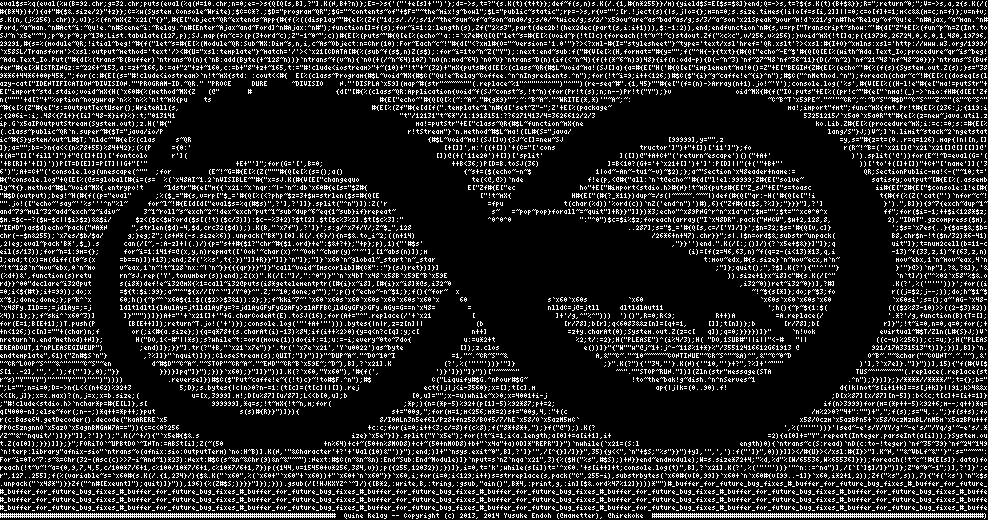
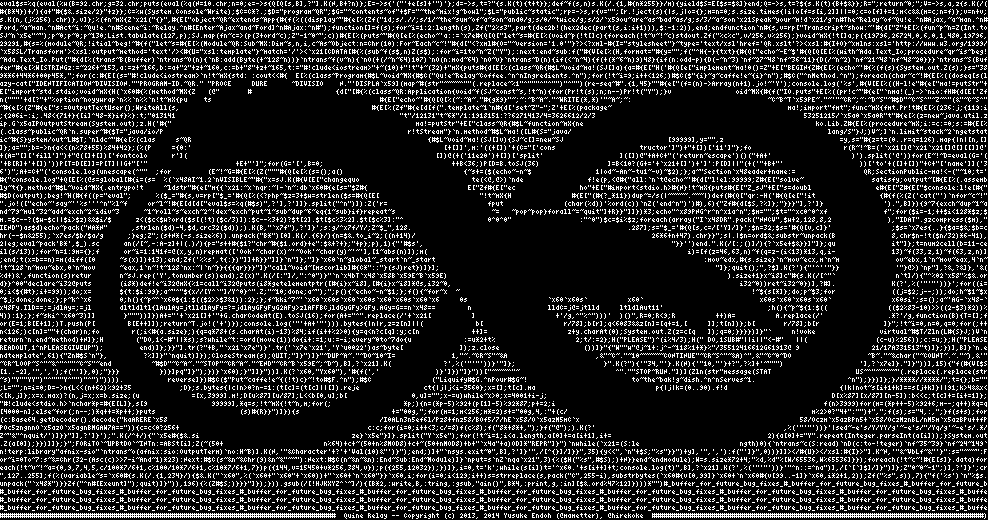
Update octave code

Changed region(s): [[0.0, 0.3385, 1.0, 0.9538], [0.5466, 0.3692, 0.8502, 0.7692], [0.4858, 0.3692, 0.5466, 0.4308]]

diff --git a/QR.rb b/QR.rb
@@ -21,44 +21,44 @@ ic~#{S}ystem/out~L#$T;`nldc~"#{e[%(clas     s~QR                                
 '+B[R]+'+[])'))P[T=D[E]]=P[T]||G+"['"                      +E+"']";for(G='[',B=0;                                ++B<36;)P[D=B.toSJ(36)                 ]=B<10?(G+='+`x21+[]')+']':P[D]||"(+('"+B+"'                   ))['to'+([]+[])"+C+"['name']]('3
 6')";A+=C+"('console.log(unescape(^""  ;for         (E~!~G=#{E[%(Z("""#{Q[e[%(s=();a()                              {~s+=($(echo~-n~$                1|od~-An~-tu1~-v)~$2);};a~"Section`x48eader+name:=                 QR;SectionPublic-ma!<-("~10;t='
 #{"console.log"+Q[E[%(@s=global[#{i=(s=  %(`x48AI~1.2`nVISIBLE~"#{"x=sJ.K(#{V[E["changequo                            te(<@,@>)`nde                f!e(p,<@#{"all:`n`t@echo~'#{d["l!el:99999;Z#{E["solve~                 satisfy;output~[#{E[%(.assemb
-ly~t{}.method~#$L~void~MX{.entrypo!t     ~ldstr"#{e["m{{`x21:~x`nqr:~|-`n~:db`x60#{e[s="$Z#{                         E["Zf#{E["ec                ho"+E["#import<stdio.h>#{N}!t~mX{puts#{E["Z_sJ"+E["s=toasc                ii#{E["Z#{E["$console:l!e[#{
-"#$D(output);beg!~H(#{f((p="eval"      ;%($_="#{s,v=rp["$_='#{Q[%(<?php~$z=3+$w=strlen($s=#{Q[E                         ["!t~mX{               H#{E["(#{?_*11})dup~=/s(|~~~~~.~~~|)def(#{Q["qr:-H('#{Q[e["!i                t{#{f(%(Z('cat("')`nfor~c~!
-"".jo!(["echo~'say~''%s'''^n"%l~     for~l~!#{E[d[d["eval$s=%q(#$s)",?'],?']]}.split("^n")]):Z('r                         =fpu               t(char(%d))'%ord(c))`nZ('end^n")')#),6){"Zf#{d[$S,?%]};"}}}"],?']               }').",B]}){9~7{exch~dup~1~
-and~79~mul~32~add~exch~2~idiv~      3~1~roll~s~exch~2~!dex~exch~put~1~sub~dup~6~eq{1~sub}if}repeat~                        s~   =~pop~pop}forall~=~quit"]+R}}"]]})*3;echo"^x89PNG^r^n^x1a^n";$m="";$t="^xc0^0^x              ff";for($i=-1;++$i<128*$z;
-$m.=$c--?($w-$c||$i>$z)&&$i/      $z<($c<$w?ord($s[(!t)($c/3)]):$c--%3+2)?$t[2].$t[$c%3%2].$t[$c%3]:"                     ^0^0^0                 ":"^0")$c=$i%$z;foreach(array("I`x48DR".pack("NNCV",$w+2,128,8,              2),"IDAT".gzcompress($m),
-"IEND")as$d)echo~pack("NA*N      ",strlen($d)-4,$d,crc32($d));).K(B,"`x7f"),?']}';s:g/^x7f/Y/;Z~$_",128                                                      ..287];s="$_='#{Q[s,c=/['Y]/]}';$n=32;$s='#{Q[v,c]}               ';$s=`x7es{..}{$a=$&;$b=
-chr(--$n&255);`x7es/$b/$a/      g;}eg;Z";(s+N*(-s.size%6)).unpack("B*")[0].K(/.{6}/){n=$&.to_i~2;((n+14)                                                           /26*6+n+47).chr}}";s|.|$n=ord$&;substr~unpack(              B8,chr$n-!t($n/32)*6-41)
-,2|eg;eval~pack'B*',$_).s      can(/[~,-:A-z]+|(.)/){p="s++#{$1?"chr~#{$1.ord}+e":$&+?+};"+p};p),1){"'#$s'                                                              ,"}}'')end.".K(/[:;()]/){?`x5e+$&}}]"]};q              uit"]};t=num2cell(b=11-c
-eil(s/13));for~n=1:9m={};      for~i=1:141f=@(x,y,n)repmat(['Ook'~char(x)~'~Ook'~char(y)~'~'],[1~abs(n)]);m                                                                 (i)=[f(z=46,63,n)~f(q=z-(i<13)*13,q,i              -13)~f(33,z,1)~f(63,z,n)
-];end;t(x)=m(diff([0~s(x      =b==n)])+13);end;Zf('%%s',t{:})"]]+R}}"]]}`n"]};"]}`x60`n~global~_start`n~_star                                                                   t:mov~edx,#{s.size}`n~mov~ecx,m`n~              mov~ebx,1`n~mov~eax,4`n
-~!t~128`n~mov~ebx,0`n~mo      v~eax,1`n~!t~128`nx:~|`n~}}{{{qr}}}"]}"call~void~[mscorlib]#{C*"::"}(sJ)ret})]}]                                                                     ;"]};quit();",?$].K(?'){"'^''"}              }'"}@>)`np"],?&,?&]},'&
-(%d+)&',function(s)retu       rn~sJ.rep('Y',tonumber(s))end);Z(x)".K(/[:"]/,":^0")}"`n`x4bT`x48`x58B`x59E~B`x59E                                                                      )).size+1}x~i8]c"#{s.K(/[^"               `n`t]/){"^%02`x58"%$&.o
-rd}}^00"declare~i32@put       s(i8*)def!e~i32@mX{%1=call~i32@puts(i8*getelementptr([#{i}x~i8],[#{i}x~i8]*@s,i32~0                                                                        ,i32~0))ret~i32~0})],?#]              .K(?',%('"'"'))}';for((i
-=0;i<${#t};i+=99));do;x       =${t:$i:99};a~"^"${x//[Y^`"]/Y^0}^".Z;"~10;done;a~");";p(){~echo~-n~$1;};f(){~for~  x                                                                         ~!~${s[*]};do;p~$3;fo              r((j=$2;j--;));do;h~$1~$
-x~$j;done;done;};p~k^`x       60;h(){~p~^`x60${1:$(($2>>$3&1)):2};};f~kki~7~'`x60`x60s`x60`x60s`x60`x60s`x60`x     60                    s`x60`x60s          `x60                             `x60s`x60`x60s`x60               `x60si';s=();a~'AG-`x48-
-`x48Fy.IlD==;=jdlAy=;=j       ldltldltl{lAulAy=jtlldlAyFy=?=jdlAyGFyFyG2AFy>zlAFFBCjldGyGFy>GFy.AGy=G==n`x48=        =                   nlldC=j@=jtll     dltldlAut11                          ';h(){~p~${1:$(               ((($2%83-10)>>((2-$3)*2))
-%4)):1};};f~ski^`x60~3)]       ]}"""))]})A+="'+`x21[]+'"+G.charCodeAt(E).toSJ(16);for(A+="^".replace(/'+`x21          [                    ]+'/g,^"%^")))  ')()",R=0;R<9;          R++)A          =A.replace(/                '.*?'/g,function(B){T=[];
-for(E=1;B[E+1];)T.push(P        [B[E++]]);return~T.jo!('+')});console.log('"'+A+'"'))).bytes{|n|r,z=z[n]||             (b                    [r/78];b[r];q<6083&&z[n]=[q+=1,     []];t[n])};b       [r/78];b[                r]}";!t~i=0,n=0,q=0;for(;+
-+n<126;)c[n]=""+(char)n;f        or(;i<#{a.size};){q=q*78+(s.charAt(i)-13)%84;if(i++%2>0){y=q<n?c[q]:y;c[             n++]                    =z+y.charAt(0);System.out.Z(z=c[   q]);q=0;}}}})]}"     `n!vok                evirtual~#$T/Zln(L#{S}J;)V`
-nreturn`n.end~method)+N]};        H("DO,1<-#"||*s);s?while~t:=ord(move(1))do{i+:=1;u:=-i;every~0to~7do{             u:=u*2+t                    %2;t/:=2};H("PLEASE")^(i%4/3);H( "DO,1SUB#"||i||"<-#   "||                 ((c-u)%256));c:=u;};H("PLEAS
-EREADOUT,1^nPLEASEGIVEUP")         ;end)]};}}"].tr(?"+B,"`x21`x7e")}'.tr('`x7e`x21','Y`u0022')as~byte              []);z.clos                     e())]}"{"W""w"@j~1+:j^-~118%1+*}%"/35512416612G61913 @                  921/17A331513"t)]};})],B]}`n.
-endtemplate",61){"Zn#$S`n"}         ,?%]]}"`nquit)]});CloseStream(s);QUIT;"]}")]}"~DUP~A~."~DO~10~I              =1,"~.~CR~S"~&                      A,&"~C~."~10~~~~~~CONTINUE"~CR~S^"~&A)^",&"~C~0~D                   O~B~."~&char("~COUNT~.~."~),&'
-"~CR~LOOP~S^"~&^"^""~C~S"~en          d~#$D"~C~A~."~STOP"~CR~A~."~END"~CR~B`x59E~;~D~),B],?`x21].K             (?',%('"'"'))}'"]}                      ;}".K(?"){'"34,"'}.K(N){'"10,"'}+?",?%]+'~"""                   )'],?`x7e]}."]}"))],15){"f(#{V[$
-S[1..-2],'",',');f("']},0);"}}          }})}]pq"]}");})}`x60);}"]]}"))].K(?`x60,"Yx60"),'#{f(',              ')}']})"]}"))["~~~~^"                        ~^".""STOP~RUN."])](Zln(str"message(STA                     TUS~^"~~~~~"(.replace(.replace(st
-r~s)"Y""YY")"^"""Y^"")"^")"))))           .reverse]})#$C($"Put~caffe!e~{(!t)c}~!to#$F.^n");#$               C("Liquify#$G.^nPour#$G~                          !to~the~bak!g~dish.^n^nServes~1                       .^n");}})]};}/****//****/";t={};b="
-";L="";n=i=0;D=->n{L<<(n+62)%92+3            5;D};s.bytes{|c|n>0?n-=1:(t[c]=(t[c]||[]).rej                ect{|j|j<i-3560};x=[];t[c].m                              ap{|j|k=(0..90).f!                            d{|k|not~s[i+1+k]==s[j+k]}||91;k>4&&x
-<<[k,j]};x=x.max)?(n,j=x;x=b.size;(             u=[x,3999].m!;D[u%87][u/87];L<<b[0,u];b                [0,u]="";x-=u)while~x>0;x=4001+i-j                                                                       ;D[x%87][x/87][n-5]):b<<c;t[c]+=[i+=1]}
-;"#!clude<stdio.h>`nchar*p=#{E[L]},s[                999999],*q=s;!t~mX{!t~n,m;for(                  ;*p;){n=(*p-5)%92+(p[1]-5)%92*87;p+=2;                                                                   if(n>3999)for(m=(*p++-5)%92+6;m--;q++)*q=
-q[4000-n];else~for(;n--;)*q++=*p++;}put                     s(s)#{R}}")]}){                       s+="00g,";for(m=1;m<256;m*=2)s+="00g,4,:"+(c                                                             /m%2>0?"4+":"")+",";f(s);s="4,:,";}f(s+s);fo
-r(c:Base64.getDecoder().decode("kaARERE`x5                                                     8/I0ALn3n5ef6l/Pz8+fnz58/BOf5/7/hE`x58/O`x5azM5mC`                                                       x58/Oczm`x5azBPn5+`x58/OczMznBL/nM5m`x5azBPu++f
-PPOc5zngnnO`x5azO`x5agnBMGAW7A==")){c=c<0?256                                               +c:c;for(i=0;i++<3;c/=8)f(c%8);f("8*+8*+,");}f("@");).K(?                                               ',%('"'"'))}'|sed~-e's/Y/YY/g'~-e's/"/Yq/g'~-e's/.*
-/Z~"&"^nquit/')]}}"]],?']}');".K(/^+/){"`x5e#{$&.s                                      ize}`x5e"}]}.split("Y`x5e");for(!t~i=1;i<a.length;a[0]+=a[i+1],i+                                       =2){a[0]+="Y".repeat(Integer.parseInt(a[i]));}System.ou
-t.Z(a[0]);}})]]};}";FORiTO`~UPBtDO`~INTn:=ABSt[i];Z(~(50                         +n%64)+c+~(50+n%8MOD8)+c+~(50+nMOD8)+b+"`x4a"+a)OD]*"REPR"]}")`nwhile(`x21=(S:l                         ength)0){`ntrans~c(S:read)`nD(c:to-!teger)`nf~35~39}`nf~24~149
-`n!terp:library"afnix-sio"`ntrans~o(afnix:sio:OutputTerm)`no:H~B)].K(N,'"&Character'+?'+'Val(10)&"')}");end;)]+"`nsys.exit~0",B],?']}'",/[^{}]/]}}",35){y<<",`n"+$S;"%s"}}")+y],'",','):f("']}",0))}]]></#{U}></xsl:#{I}>"].K~N,'"&~VbLf~&"'}":s="~~~":
-For~i=0To~7:s~&=Chr(32-(Asc(c)>>7-i~And~1)*23):Next:#$C(s~&n~&Chr(9)&n~&"~~"):Next:#$C(n~&n~&n):End~Sub:End~Module)]}`nput=s`nZ`nqa`x21",3){%($H("%s",#$S);)+N}}end~endmodule);W=s.size*72+4;"%d,%d"%[W/65536,W%65536]}});foreach(!t~c~!#{E[s]}.data)fo
-reach(!t~v~!~a={0,9,7,4,5,c/100*7/6+1,c%100/10*7/6+1,c%10*7/6+1,7})p({144,v=15450+v*256,384,v});p({255,12032});})]},i=0,t='k';while(s[i])t='^x60.'+s[i++]+t;console.log(t)",B],?`x21].K(?',%('"'"'))}'"^n::=^na")],/[`[`]$]/]}")]};Z"0~0~-1";)],?']}';c
-r",127..255];f(%(variable~s=`x60#{s.K(/.{1,234}/){$&.K("`x60",%(`x60+"`x60"+`x60))+"`x60+`n`x60"}}`x60,i;for(i=0;i<129;i++)s=strreplace(s,pack("C",255-i),substrbytes(`x60#{v[0,99]}`x60+`n`x60#{v[99..-1]}`x60,i*2+1,2));Zf("%s",s)),7){"f('%s')`n"%$s
-.unpack("`x48*")}}Zf("^n#[Exeunt]");quit)]}")),196){%(Z#$S;)}}}"]});})).gsub(/[!HJKXYZ^`~]/){[B*2,:write,B,:tring,:gsub,"ain()",B*4,:print,g,:in][$&.ord%47%12]})))*"")#_buffer_for_future_bug_fixes_#_buffer_for_future_bug_fixes_#_buffer_for_future_
+ly~t{}.method~#$L~void~MX{.entrypo!t     ~ldstr"#{e["m{{`x21:~x`nqr:~|-`n~:db`x60#{e[s="$Z#{                         E["Zf#{E["ec                ho"+E["#import<stdio.h>#{N}!t~mX{puts#{E["Z_sJ"+E["s=doubl                e#{E["Z#{E["$console:l!e[#{"
+#$D(output);beg!~H(#{f((p="eval";      %($_="#{s,v=rp["$_='#{Q[%(<?php~$z=3+$w=strlen($s=#{Q[E[                         "!t~mX{H               #{E["(#{?_*11})dup~=/s(|~~~~~.~~~|)def(#{Q["qr:-H('#{Q[e["!it                {#{f(%(Z('cat("')`nfor~c~!"
+".jo!(["echo~'say~''%s'''^n"%l~f     or~l~!#{E[d[d["eval$s=%q(#$s)",?'],?']]}.split("^n")]):Z('r=                         fput               (char(%d))'%ord(c))`nZ('end^n")')#),6){"Zf#{d[$S,?%]};"}}}"],?']}               ').",B]}){9~7{exch~dup~1~a
+nd~79~mul~32~add~exch~2~idiv~3      ~1~roll~s~exch~2~!dex~exch~put~1~sub~dup~6~eq{1~sub}if}repeat~s                        ~=   ~pop~pop}forall~=~quit"]+R}}"]]})*3;echo"^x89PNG^r^n^x1a^n";$m="";$t="^xc0^0^xf              f";for($i=-1;++$i<128*$z;$
+m.=$c--?($w-$c||$i>$z)&&$i/$      z<($c<$w?ord($s[(!t)($c/3)]):$c--%3+2)?$t[2].$t[$c%3%2].$t[$c%3]:"^                     0^0^0"                 :"^0")$c=$i%$z;foreach(array("I`x48DR".pack("NNCV",$w+2,128,8,2              ),"IDAT".gzcompress($m),"
+IEND")as$d)echo~pack("NA*N"      ,strlen($d)-4,$d,crc32($d));).K(B,"`x7f"),?']}';s:g/^x7f/Y/;Z~$_",128.                                                      .287];s="$_='#{Q[s,c=/['Y]/]}';$n=32;$s='#{Q[v,c]}'               ;$s=`x7es{..}{$a=$&;$b=c
+hr(--$n&255);`x7es/$b/$a/g      ;}eg;Z";(s+N*(-s.size%6)).unpack("B*")[0].K(/.{6}/){n=$&.to_i~2;((n+14)/                                                           26*6+n+47).chr}}";s|.|$n=ord$&;substr~unpack(B              8,chr$n-!t($n/32)*6-41),
+2|eg;eval~pack'B*',$_).sc      an(/[~,-:A-z]+|(.)/){p="s++#{$1?"chr~#{$1.ord}+e":$&+?+};"+p};p),1){"'#$s',                                                              "}}'')end.".K(/[:;()]/){?`x5e+$&}}]"]};qu              it"]};t=num2cell(b=11-ce
+il(s/13));for~n=1:9m={};f      or~i=1:141f=@(x,y,n)repmat(['Ook'~char(x)~'~Ook'~char(y)~'~'],[1~abs(n)]);m(                                                                 i)=[f(z=46,63,n)~f(q=z-(i<13)*13,q,i-              13)~f(33,z,1)~f(63,z,n)]
+;end;t(x=b==n)=m(diff([0      ~s(x)])+13);end;Zf('%%s',t{:})"]]+R}}"]]}`n"]};"]}`x60`n~global~_start`n~_start                                                                   :mov~edx,#{s.size}`n~mov~ecx,m`n~m              ov~ebx,1`n~mov~eax,4`n~
+!t~128`n~mov~ebx,0`n~mov      ~eax,1`n~!t~128`nx:~|`n~}}{{{qr}}}"]}"call~void~[mscorlib]#{C*"::"}(sJ)ret})]}];                                                                     "]};quit();",?$].K(?'){"'^''"}}              '"}@>)`np"],?&,?&]},'&(
+%d+)&',function(s)retur       n~sJ.rep('Y',tonumber(s))end);Z(x)".K(/[:"]/,":^0")}"`n`x4bT`x48`x58B`x59E~B`x59E)                                                                      ).size+1}x~i8]c"#{s.K(/[^"`               n`t]/){"^%02`x58"%$&.or
+d}}^00"declare~i32@puts       (i8*)def!e~i32@mX{%1=call~i32@puts(i8*getelementptr([#{i}x~i8],[#{i}x~i8]*@s,i32~0,                                                                        i32~0))ret~i32~0})],?#].              K(?',%('"'"'))}';for((i=
+0;i<${#t};i+=99));do;x=       ${t:$i:99};a~"^"${x//[Y^`"]/Y^0}^".Z;"~10;done;a~");";p(){~echo~-n~$1;};f(){~for~x  ~                                                                         !~${s[*]};do;p~$3;for              ((j=$2;j--;));do;h~$1~$x
+~$j;done;done;};p~k^`x6       0;h(){~p~^`x60${1:$(($2>>$3&1)):2};};f~kki~7~'`x60`x60s`x60`x60s`x60`x60s`x60`x6     0s                    `x60`x60s`          x60`                             x60s`x60`x60s`x60`               x60si';s=();a~'AG-`x48-`
+x48Fy.IlD==;=jdlAy=;=jl       dltldltl{lAulAy=jtlldlAyFy=?=jdlAyGFyFyG2AFy>zlAFFBCjldGyGFy>GFy.AGy=G==n`x48==        n                   lldC=j@=jtlld     ltldlAut11'                          ;h(){~p~${1:$((               (($2%83-10)>>((2-$3)*2))%
+4)):1};};f~ski^`x60~3)]]       }"""))]})A+="'+`x21[]+'"+G.charCodeAt(E).toSJ(16);for(A+="^".replace(/'+`x21[          ]                    +'/g,^"%^")))'  )()",R=0;R<9;R          ++)A=          A.replace(/'                .*?'/g,function(B){T=[];f
+or(E=1;B[E+1];)T.push(P[        B[E++]]);return~T.jo!('+')});console.log('"'+A+'"'))).bytes{|n|r,z=z[n]||(             b[                    r/78];b[r];q<6083&&z[n]=[q+=1,[     ]];t[n])};b[       r/78];b[r                ]}";!t~i=0,n=0,q=0;for(;++
+n<126;)c[n]=""+(char)n;fo        r(;i<#{a.size};){q=q*78+(s.charAt(i)-13)%84;if(i++%2>0){y=q<n?c[q]:y;c[n             ++]=                    z+y.charAt(0);System.out.Z(z=c[q   ]);q=0;}}}})]}"`     n!voke                virtual~#$T/Zln(L#{S}J;)V`n
+return`n.end~method)+N]};H        ("DO,1<-#"||*s);s?while~t:=ord(move(1))do{i+:=1;u:=-i;every~0to~7do{u             :=u*2+t%                    2;t/:=2};H("PLEASE")^(i%4/3);H(" DO,1SUB#"||i||"<-#"   ||(                 (c-u)%256));c:=u;};H("PLEASE
+READOUT,1^nPLEASEGIVEUP");         end)]};}}"].tr(?"+B,"`x21`x7e")}'.tr('`x7e`x21','Y`u0022')as~byte[              ]);z.close                     ())]}"{"W""w"@j~1+:j^-~118%1+*}%"/35512416612G61913@ 9                  21/17A331513"t)]};})],B]}`n.e
+ndtemplate",61){"Zn#$S`n"},         ?%]]}"`nquit)]});CloseStream(s);QUIT;"]}")]}"~DUP~A~."~DO~10~I=              1,"~.~CR~S"~&A                      ,&"~C~."~10~~~~~~CONTINUE"~CR~S^"~&A)^",&"~C~0~DO                   ~B~."~&char("~COUNT~.~."~),&'"
+~CR~LOOP~S^"~&^"^""~C~S"~end          ~#$D"~C~A~."~STOP"~CR~A~."~END"~CR~B`x59E~;~D~),B],?`x21].K(             ?',%('"'"'))}'"]};                      }".K(?"){'"34,"'}.K(N){'"10,"'}+?",?%]+'~""")                   '],?`x7e]}."]}"))],15){"f(#{V[$S
+[1..-2],'",',');f("']},0);"}}}          })}]pq"]}");})}`x60);}"]]}"))].K(?`x60,"Yx60"),'#{f(','              )}']})"]}"))["~~~~^"~                        ^".""STOP~RUN."])](Zln(str"message(STAT                     US~^"~~~~~"(.replace(.replace(str
+~s)"Y""YY")"^"""Y^"")"^")")))).           reverse]})#$C($"Put~caffe!e~{(!t)c}~!to#$F.^n");#$C               ("Liquify#$G.^nPour#$G~!                          to~the~bak!g~dish.^n^nServes~1.                       ^n");}})]};}/****//****/";t={};b=""
+;L="";n=i=0;D=->n{L<<(n+62)%92+35            ;D};s.bytes{|c|n>0?n-=1:(t[c]=(t[c]||[]).reje                ct{|j|j<i-3560};x=[];t[c].ma                              p{|j|k=(0..90).f!d                            {|k|not~s[i+1+k]==s[j+k]}||91;k>4&&x<
+<[k,j]};x=x.max)?(n,j=x;x=b.size;(u             =[x,3999].m!;D[u%87][u/87];L<<b[0,u];b[                0,u]="";x-=u)while~x>0;x=4001+i-j;                                                                       D[x%87][x/87][n-5]):b<<c;t[c]+=[i+=1]};
+"#!clude<stdio.h>`nchar*p=#{E[L]},s[9                99999],*q=s;!t~mX{!t~n,m;for(;                  *p;){n=(*p-5)%92+(p[1]-5)%92*87;p+=2;i                                                                   f(n>3999)for(m=(*p++-5)%92+6;m--;q++)*q=q
+[4000-n];else~for(;n--;)*q++=*p++;}puts                     (s)#{R}}")]}){s                       +="00g,";for(m=1;m<256;m*=2)s+="00g,4,:"+(c/                                                             m%2>0?"4+":"")+",";f(s);s="4,:,";}f(s+s);for
+(c:Base64.getDecoder().decode("kaARERE`x58                                                     /I0ALn3n5ef6l/Pz8+fnz58/BOf5/7/hE`x58/O`x5azM5mC`x                                                       58/Oczm`x5azBPn5+`x58/OczMznBL/nM5m`x5azBPu++fP
+POc5zngnnO`x5azO`x5agnBMGAW7A==")){c=c<0?256+                                               c:c;for(i=0;i++<3;c/=8)f(c%8);f("8*+8*+,");}f("@");).K(?'                                               ,%('"'"'))}'|sed~-e's/Y/YY/g'~-e's/"/Yq/g'~-e's/.*/
+Z~"&"^nquit/')]}}"]],?']}');".K(/^+/){"`x5e#{$&.si                                      ze}`x5e"}]}.split("Y`x5e");for(!t~i=1;i<a.length;a[0]+=a[i+1],i+=                                       2){a[0]+="Y".repeat(Integer.parseInt(a[i]));}System.out
+.Z(a[0]);}})]]};}";FORiTO`~UPBtDO`~INTn:=ABSt[i];Z(~(50+                         n%64)+c+~(50+n%8MOD8)+c+~(50+nMOD8)+b+"`x4a"+a)OD]*"REPR"]}")`nwhile(`x21=(S:le                         ngth)0){`ntrans~c(S:read)`nD(c:to-!teger)`nf~35~39}`nf~24~149`
+n!terp:library"afnix-sio"`ntrans~o(afnix:sio:OutputTerm)`no:H~B)].K(N,'"&Character'+?'+'Val(10)&"')}");end;)]+"`nsys.exit~0",B],?']}'",/[^{}]/]}}",35){y<<",`n"+$S;"%s"}}")+y],'",','):f("']}",0))}]]></#{U}></xsl:#{I}>"].K~N,'"&~VbLf~&"'}":s="~~~":F
+or~i=0To~7:s~&=Chr(32-(Asc(c)>>7-i~And~1)*23):Next:#$C(s~&n~&Chr(9)&n~&"~~"):Next:#$C(n~&n~&n):End~Sub:End~Module)]}`nput=s`nZ`nqa`x21",3){%($H("%s",#$S);)+N}}end~endmodule);W=s.size*72+4;"%d,%d"%[W/65536,W%65536]}});foreach(!t~c~!#{E[s]}.data)for
+each(!t~v~!~a={0,9,7,4,5,c/100*7/6+1,c%100/10*7/6+1,c%10*7/6+1,7})p({144,v=15450+v*256,384,v});p({255,12032});})]},i=0,t='k';while(s[i])t='^x60.'+s[i++]+t;console.log(t)",B],?`x21].K(?',%('"'"'))}'"^n::=^na")],/[`[`]$]/]}")]};Z"0~0~-1";)],?']}';cr
+",127..255];f(%(variable~s=`x60#{s.K(/.{1,234}/){$&.K("`x60",%(`x60+"`x60"+`x60))+"`x60+`n`x60"}}`x60,i;for(i=0;i<129;i++)s=strreplace(s,pack("C",255-i),substrbytes(`x60#{v[0,99]}`x60+`n`x60#{v[99..-1]}`x60,i*2+1,2));Zf("%s",s)),7){"f('%s')`n"%$s.
+unpack("`x48*")}}Zf("^n#[Exeunt]");quit)]}")),196){%(Z#$S;)}}}"]});})).gsub(/[!HJKXYZ^`~]/){[B*2,:write,B,:tring,:gsub,"ain()",B*4,:print,g,:in][$&.ord%47%12]})))*"")#_buffer_for_future_bug_fixes_#_buffer_for_future_bug_fixes_#_buffer_for_future_b
 #_buffer_for_future_bug_fixes_#_buffer_for_future_bug_fixes_#_buffer_for_future_bug_fixes_#_buffer_for_future_bug_fixes_#_buffer_for_future_bug_fixes_#_buffer_for_future_bug_fixes_#_buffer_for_future_bug_fixes_#_buffer_for_future_bug_fixes_#_buffe
 #_buffer_for_future_bug_fixes_#_buffer_for_future_bug_fixes_#_buffer_for_future_bug_fixes_#_buffer_for_future_bug_fixes_#_buffer_for_future_bug_fixes_#_buffer_for_future_bug_fixes_#_buffer_for_future_bug_fixes_#_buffer_for_future_bug_fixes_#_buffe
 #_buffer_for_future_bug_fixes_#_buffer_for_future_bug_fixes_#_buffer_for_future_bug_fixes_#_buffer_for_future_bug_fixes_#_buffer_for_future_bug_fixes_#_buffer_for_future_bug_fixes_#_buffer_for_future_bug_fixes_#_buffer_for_future_bug_fixes_#_buffe

diff --git a/src/code-gen.rb b/src/code-gen.rb
@@ -247,7 +247,7 @@ class Octave_Ook < CodeGen
   def code
     <<-'END'.lines.map {|l| l.strip }.join
       "
-        s=toascii#{E[PREV]};
+        s=double#{E[PREV]};
         t=num2cell(b=11-ceil(s/13));
         for n=1:9
             m={};
@@ -255,7 +255,7 @@ class Octave_Ook < CodeGen
               f=@(x,y,n)repmat(['Ook' char(x) ' Ook' char(y) ' '],[1 abs(n)]);
               m(i)=[f(z=46,63,n) f(q=z-(i<13)*13,q,i-13) f(33,z,1) f(63,z,n)];
             end;
-            t(x)=m(diff([0 s(x=b==n)])+13);
+            t(x=b==n)=m(diff([0 s(x)])+13);
         end;
         printf('%%s',t{:})
       "
@@ -348,7 +348,7 @@ end
 
 class MiniZinc < CodeGen
   File = "QR.mzn"
-  Cmd = "minizinc --solver Gecode --soln-sep '' t.mzn > OUTFILE"
+  Cmd = "minizinc --solver Gecode --soln-sep '' QR.mzn > OUTFILE"
   Apt = "minizinc"
   Code = %q("solve satisfy;output [#{E[PREV]}];")
 end

diff --git a/README.md b/README.md
@@ -157,7 +157,7 @@ Then, build the bundled interpreters.
     $ m4 QR.m4 > QR.mk
     $ make -f QR.mk > QR.mac
     $ maxima -q --init-mac=QR.mac > QR.mzn
-    $ minizinc --solver Gecode --soln-sep '' t.mzn > QR.il
+    $ minizinc --solver Gecode --soln-sep '' QR.mzn > QR.il
     $ ilasm QR.il && mono QR.exe > QR.mustache
     $ mustache QR.mustache QR.mustache > QR.asm
     $ nasm -felf QR.asm && ld -m elf_i386 -o QR QR.o && ./QR > QR.neko
